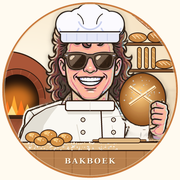
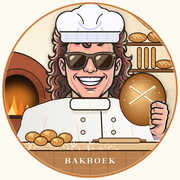
Koksbuis vervangt de oude outfit volledig in icoon en deelbanner
Claude-Session: https://claude.ai/code/session_01SzxQG6kYqwiDNdyQbrdGTq

diff --git a/index.html b/index.html
@@ -10,7 +10,7 @@
 <meta property="og:title" content="Rogier's Bakboek">
 <meta property="og:description" content="Pizzadeeg, witte bolletjes, zuurdesembrood, Frans stokbrood en fondantkoekjes. Kies je aantal en alle hoeveelheden en tijden rekenen mee.">
 <meta property="og:url" content="https://rogierpost89.github.io/Rogiers-Bakboek/">
-<meta property="og:image" content="https://rogierpost89.github.io/Rogiers-Bakboek/og-image.png?v=2">
+<meta property="og:image" content="https://rogierpost89.github.io/Rogiers-Bakboek/og-image.png?v=3">
 <meta property="og:image:width" content="1200">
 <meta property="og:image:height" content="630">
 <meta property="og:locale" content="nl_NL">
